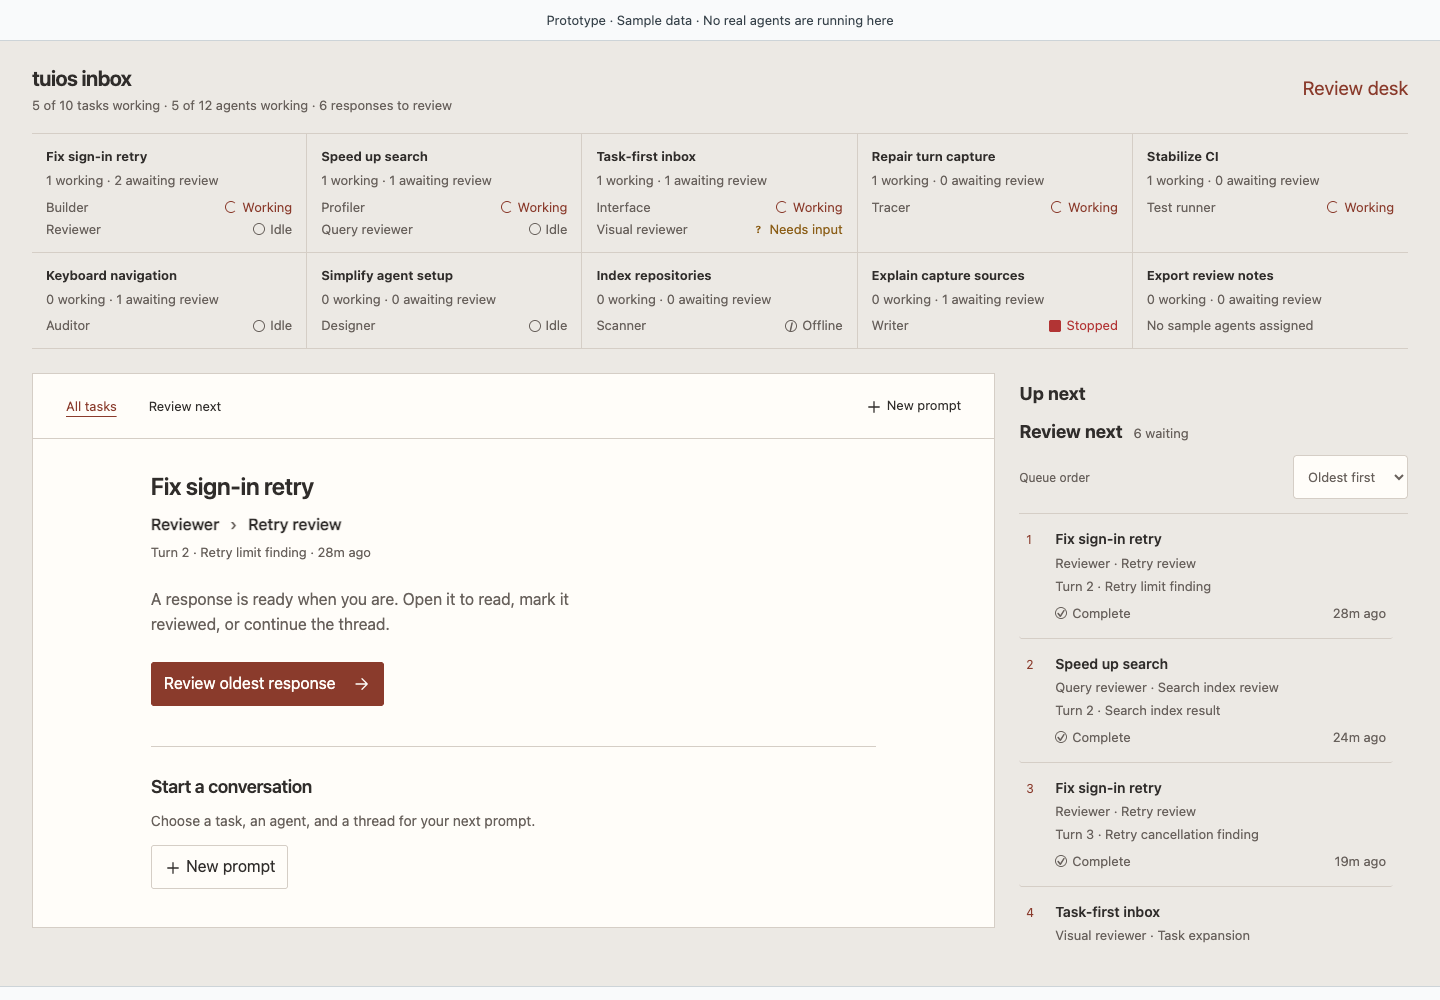
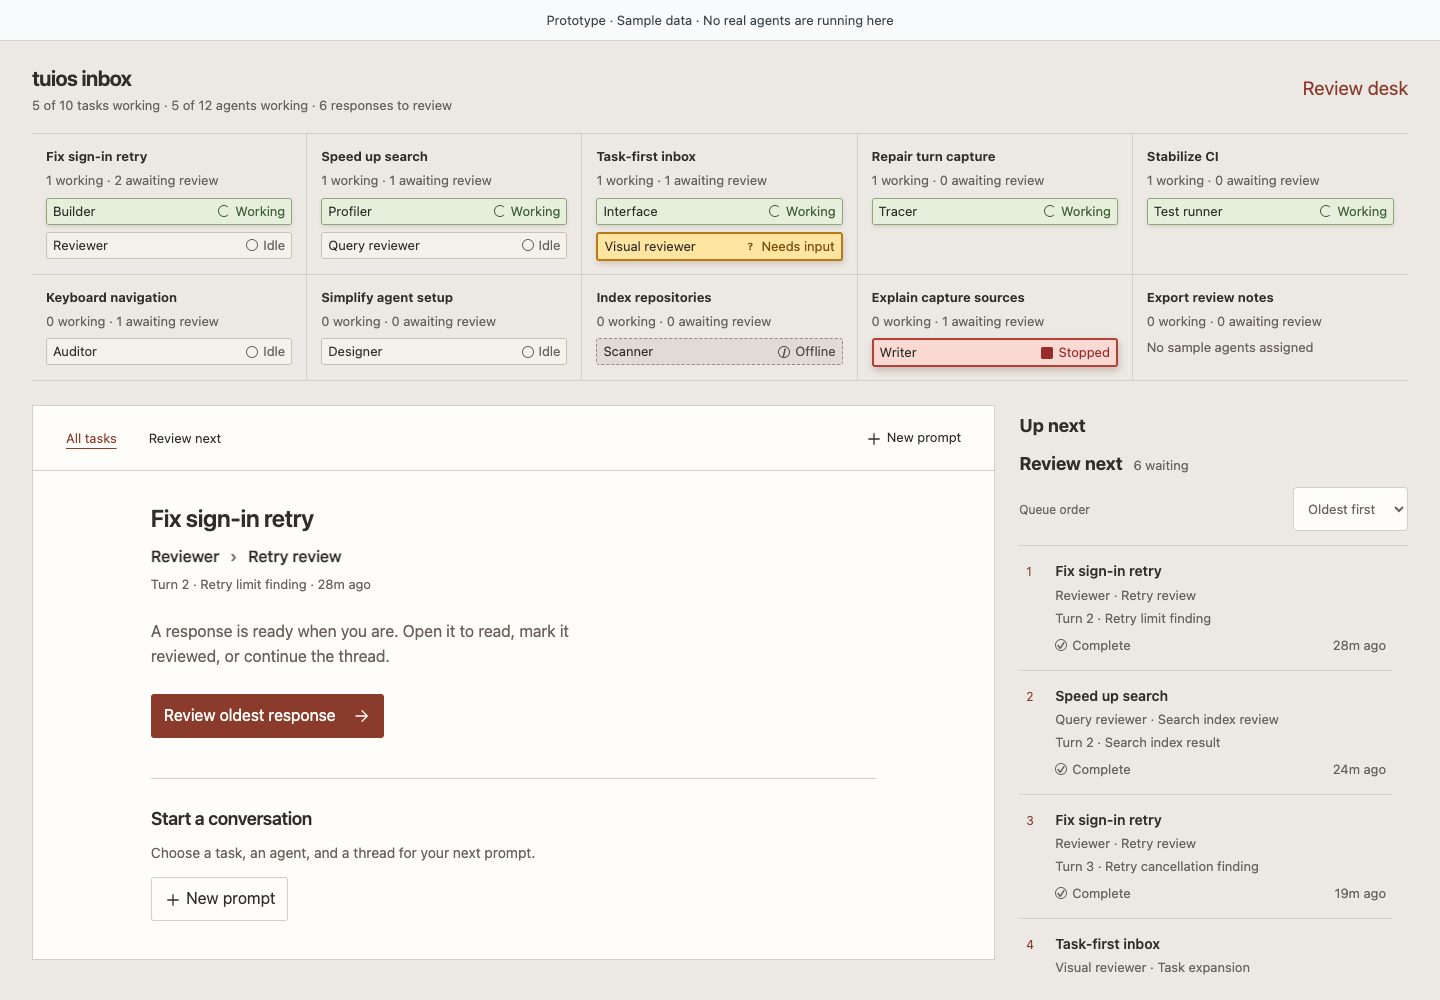
Distinguish agent execution states across inbox comparisons

diff --git a/.impeccable/prototypes/list-directions/task-first/desk.css b/.impeccable/prototypes/list-directions/task-first/desk.css
@@ -17,8 +17,8 @@ body { background: var(--bg); color: var(--ink); }
 .desk-index-task strong { font-size: 13px; font-weight: 650; }
 .desk-index-task.is-selected { background: var(--panel); box-shadow: inset 0 3px var(--accent); }
 .desk-index-counts, .desk-index-agents { color: var(--muted); }
-.desk-index-agents { display: flex; flex-direction: column; gap: 3px; margin-top: 3px; }
-.desk-index-agent { display: flex; justify-content: space-between; flex-wrap: wrap; gap: 2px 8px; }
+.desk-index-agents { display: flex; flex-direction: column; gap: 7px; margin-top: 3px; }
+.desk-index-agent { display: flex; justify-content: space-between; flex-wrap: wrap; gap: 2px 8px; padding: 3px 6px; min-width: 0; border-radius: 3px; }
 .desk-index-agent .status-mark { font-size: 13px; }
 
 .desk-columns { display: grid; grid-template-columns: minmax(0, 7fr) minmax(0, 3fr); margin-top: 24px; align-items: start; }
@@ -78,6 +78,62 @@ body { background: var(--bg); color: var(--ink); }
 .desk-layout .task-agent.is-selected { border-left-color: var(--accent); }
 .desk-layout .task-agent h2 { margin: 0; font-size: 18px; }
 .desk-layout .task-agent h2 button { display: flex; align-items: center; flex-wrap: wrap; gap: 14px; text-align: left; border-color: transparent; padding-left: 0; font-size: 18px; }
+.desk-layout .task-workspace .task-agent > h2 > button { width: 100%; min-width: 0; padding: 8px 10px; gap: 6px 14px; }
+.desk-layout :is(.desk-index-agent, .task-workspace .task-agent > h2 > button) {
+  --agent-fill: #f4f1eb;
+  --agent-hover: #eae5dd;
+  --agent-border: #c9c1b7;
+  --agent-border-width: 1px;
+  --agent-border-style: solid;
+  --agent-shadow: none;
+  background: var(--agent-fill);
+  border: var(--agent-border-width) var(--agent-border-style) var(--agent-border);
+  box-shadow: var(--agent-shadow);
+  color: var(--ink);
+}
+.desk-layout :is(.desk-index-agent, .task-workspace .task-agent > h2 > button):has(> .status-working) {
+  --agent-fill: #e6efdc;
+  --agent-hover: #d9e7cb;
+  --agent-border: #91a47b;
+  --agent-shadow: 0 2px 4px rgb(55 68 41 / 13%);
+}
+.desk-layout :is(.desk-index-agent, .task-workspace .task-agent > h2 > button):has(> .status-needs_input) {
+  --agent-fill: #ffe5a0;
+  --agent-hover: #ffda7b;
+  --agent-border: #b87916;
+  --agent-border-width: 2px;
+  --agent-shadow: 1px 3px 6px rgb(100 66 18 / 20%);
+}
+.desk-layout :is(.desk-index-agent, .task-workspace .task-agent > h2 > button):has(> .status-error) {
+  --agent-fill: #f9d9d2;
+  --agent-hover: #f4c6bc;
+  --agent-border: #b34138;
+  --agent-border-width: 2px;
+  --agent-shadow: 1px 4px 8px rgb(103 42 34 / 26%);
+}
+.desk-layout :is(.desk-index-agent, .task-workspace .task-agent > h2 > button):has(> .status-idle) {
+  --agent-fill: #f4f1eb;
+  --agent-hover: #eae5dd;
+  --agent-border: #c9c1b7;
+  --agent-shadow: none;
+}
+.desk-layout :is(.desk-index-agent, .task-workspace .task-agent > h2 > button):has(> .status-offline) {
+  --agent-fill: #e0dcd5;
+  --agent-hover: #d5cfc6;
+  --agent-border: #958b7f;
+  --agent-border-style: dashed;
+  --agent-shadow: none;
+}
+.desk-layout .desk-index-task:hover .desk-index-agent,
+.desk-layout .task-workspace .task-agent > h2 > button:hover {
+  background: var(--agent-hover);
+  border-color: var(--agent-border);
+  color: var(--ink);
+}
+.desk-layout :is(.desk-index-agent, .task-workspace .task-agent > h2 > button) > .status-working { color: #426239; }
+.desk-layout :is(.desk-index-agent, .task-workspace .task-agent > h2 > button) > .status-needs_input { color: #78500c; }
+.desk-layout :is(.desk-index-agent, .task-workspace .task-agent > h2 > button) > .status-error { color: #982a2a; }
+.desk-layout :is(.desk-index-agent, .task-workspace .task-agent > h2 > button) > .status-offline { color: #554f49; }
 .desk-layout .task-agent > p { color: var(--muted); font-size: 13px; }
 .desk-layout .agent-threads { margin-left: 16px; padding-left: 16px; border-left: 1px solid var(--rule); }
 .desk-layout .thread h3 button { text-align: left; font-size: 15px; border-color: transparent; }

diff --git a/.impeccable/prototypes/list-directions/task-first/rooms.css b/.impeccable/prototypes/list-directions/task-first/rooms.css
@@ -28,8 +28,8 @@ body[data-variant="rooms"] {
 .room-heading h2 svg { width: 15px; color: var(--muted); }
 .room-counts { display: flex; flex-wrap: wrap; gap: 2px 10px; font-size: 13px; color: var(--muted); margin: 2px 0 0; }
 .room-counts span:first-child { color: var(--ink); }
-.room-agents { list-style: none; margin: 0; padding: 4px 8px; }
-.room-agents li + li { border-top: 1px solid var(--rule); }
+.room-agents { list-style: none; margin: 0; padding: 8px; }
+.room-agents li + li { margin-top: 10px; }
 .room-agent { display: grid; grid-template-columns: minmax(0, 1fr) auto; gap: 3px 6px; width: 100%; padding: 8px 4px; border: 0; text-align: left; align-items: center; }
 .room-agent-name { font-size: 14px; font-weight: 600; }
 .room-agent-threads { grid-column: 1 / -1; color: var(--muted); font-size: 13px; }
@@ -82,6 +82,60 @@ body[data-variant="rooms"] {
 .rooms-layout .thread h3 { margin-bottom: 4px; }
 .rooms-layout .thread h3 button { text-align: left; border: 0; padding-left: 0; font-size: 15px; }
 .rooms-layout [aria-current="true"] { color: var(--accent); }
+.rooms-layout :is(.room-agent, .task-workspace .task-agent > h2 > button) {
+  --agent-fill: #252b34;
+  --agent-border: #596473;
+  --agent-label: #c9d1dc;
+  --agent-shadow: none;
+  background: var(--agent-fill);
+  border: 1px solid var(--agent-border);
+  box-shadow: var(--agent-shadow);
+  color: var(--ink);
+  padding: 8px;
+  min-width: 0;
+  overflow-wrap: anywhere;
+}
+.rooms-layout .task-workspace .task-agent > h2 > button { flex-wrap: wrap; }
+.rooms-layout :is(.room-agent, .task-workspace .task-agent > h2 > button):has(> .status-working) {
+  --agent-fill: #2d4435;
+  --agent-border: #81a98c;
+  --agent-label: #c4efcf;
+  --agent-shadow: 0 2px 5px rgb(0 0 0 / 22%);
+}
+.rooms-layout :is(.room-agent, .task-workspace .task-agent > h2 > button):has(> .status-needs_input) {
+  --agent-fill: #59461c;
+  --agent-border: #efbf58;
+  --agent-label: #ffe2a0;
+  --agent-shadow: 0 4px 9px rgb(0 0 0 / 34%);
+  border-width: 2px;
+}
+.rooms-layout :is(.room-agent, .task-workspace .task-agent > h2 > button):has(> .status-error) {
+  --agent-fill: #4c252c;
+  --agent-border: #fa8392;
+  --agent-label: #ffd0d8;
+  --agent-shadow: 0 6px 12px rgb(0 0 0 / 46%);
+  border-width: 2px;
+}
+.rooms-layout :is(.room-agent, .task-workspace .task-agent > h2 > button):has(> .status-idle) {
+  --agent-fill: #252b34;
+  --agent-shadow: none;
+}
+.rooms-layout :is(.room-agent, .task-workspace .task-agent > h2 > button):has(> .status-offline) {
+  --agent-fill: #171b21;
+  --agent-border: #697382;
+  --agent-label: #b6beca;
+  --agent-shadow: none;
+  border-style: dashed;
+  color: #c5cdd8;
+}
+.rooms-layout :is(.room-agent, .task-workspace .task-agent > h2 > button) > .status-mark { color: var(--agent-label); }
+.rooms-layout .room-agent > .room-agent-threads { color: #cbd2dc; }
+.rooms-layout :is(.room-agent, .task-workspace .task-agent > h2 > button):hover:not(:disabled) {
+  background: color-mix(in srgb, var(--agent-fill), white 7%);
+  border-color: var(--agent-border);
+  color: var(--ink);
+}
+.rooms-layout :is(.room-agent, .task-workspace .task-agent > h2 > button):focus-visible { outline: 2px solid #dce9ff; outline-offset: 3px; }
 .rooms-layout .turn-history { padding-left: 18px; margin: 0 0 12px; }
 .rooms-layout .turn-history li { padding: 3px 0; }
 .rooms-layout .turn-history button { text-align: left; font-size: 13px; width: 100%; background: var(--control); }

diff --git a/.impeccable/prototypes/list-directions/task-first/ledger.css b/.impeccable/prototypes/list-directions/task-first/ledger.css
@@ -33,11 +33,21 @@ body { height: 100dvh; }
 .ledger-agents { margin: 0 0 4px 21px; border-left: 1px solid var(--rule); }
 .ledger-agent { position: relative; padding-left: 10px; }
 .ledger-agent::before, .ledger-thread::before { content: ''; position: absolute; left: 0; top: 22px; width: 10px; border-top: 1px solid var(--rule); }
+.ledger-agent > .ledger-agent-line { --muted: #4f5852; position: relative; margin-block: 2px 4px; padding-right: 6px; border: 1px solid #c4c9bf; background: #f2f2ed; color: var(--ink); box-shadow: none; }
+.ledger-agent > .ledger-agent-line:has(> .ledger-agent-select > .status-working) { background: #e1f0e6; border-color: #8aac98; box-shadow: 1px 2px 4px -2px rgb(35 70 48 / .24); }
+.ledger-agent > .ledger-agent-line:has(> .ledger-agent-select > .status-needs_input) { background: #fff0c5; border: 2px solid #b58222; box-shadow: 1px 3px 6px -2px rgb(100 70 18 / .32); }
+.ledger-agent > .ledger-agent-line:has(> .ledger-agent-select > .status-error) { background: #f9d7d5; border: 2px solid #b6433f; box-shadow: 2px 4px 7px -2px rgb(109 39 35 / .38); }
+.ledger-agent > .ledger-agent-line:has(> .ledger-agent-select > .status-idle) { background: #f2f2ed; border-color: #c4c9bf; box-shadow: none; }
+.ledger-agent > .ledger-agent-line:has(> .ledger-agent-select > .status-offline) { background: #e4e6df; border: 1px dashed #90988d; box-shadow: none; }
+.ledger-agent > .ledger-agent-line > button { background: transparent; }
+.ledger-agent > .ledger-agent-line > button:hover:not(:disabled) { background: rgb(32 39 37 / .07); color: var(--accent); }
+.ledger-agent-select > .status-needs_input { color: #78500f; }
+.ledger-agent-select > .status-error { color: #8f2929; }
 .ledger-agent-select { display: flex; align-items: center; gap: 12px; flex: 1; min-width: 0; text-align: left; border: 0; padding: 6px 0; font-size: 13px; }
 .ledger-agent-name { font-weight: 550; }
 .ledger-agent-select > .ledger-meta { margin-left: auto; }
 .ledger [aria-current=true] { color: var(--accent); }
-.ledger-agent.is-selected > .ledger-agent-line { box-shadow: inset 2px 0 var(--accent); }
+.ledger-agent.is-selected > .ledger-agent-line > .ledger-agent-select > .ledger-agent-name { text-decoration: underline; text-decoration-thickness: 2px; text-underline-offset: 3px; }
 .ledger-threads { margin-left: 21px; padding-left: 12px; border-left: 1px solid var(--rule); }
 .ledger-thread { position: relative; }
 .ledger-thread::before { left: -12px; }

diff --git a/README.md b/README.md
@@ -182,4 +182,6 @@ Open the explicit entry filename, using the port printed by the preview server:
 
 Opening a response leaves it pending. **Reviewed · next** or a successful sample reply clears only that turn. Variant changes retain selections, review decisions, ordering, and target-specific drafts; reload resets the sample. Expand **Sample controls** to finish working turns deterministically, simulate one failed send, inspect state, or reset. All prompts and results are synthetic. If port 4401 is occupied, run the same command with `PORT=4402` or another free port; do not stop the existing process.
 
+Agent execution state is carried by the whole agent row: green Working, amber Needs input, rose Stopped, flat neutral Idle, and subdued dashed Offline. Borders and offset soft shadows strengthen for states needing attention; labels and glyphs remain visible. These treatments do not change task-level counts or whether a response awaits review.
+
 These artifacts compare interaction designs only. Their relational sample fields and review semantics are not a production storage contract or a change to the live app.
